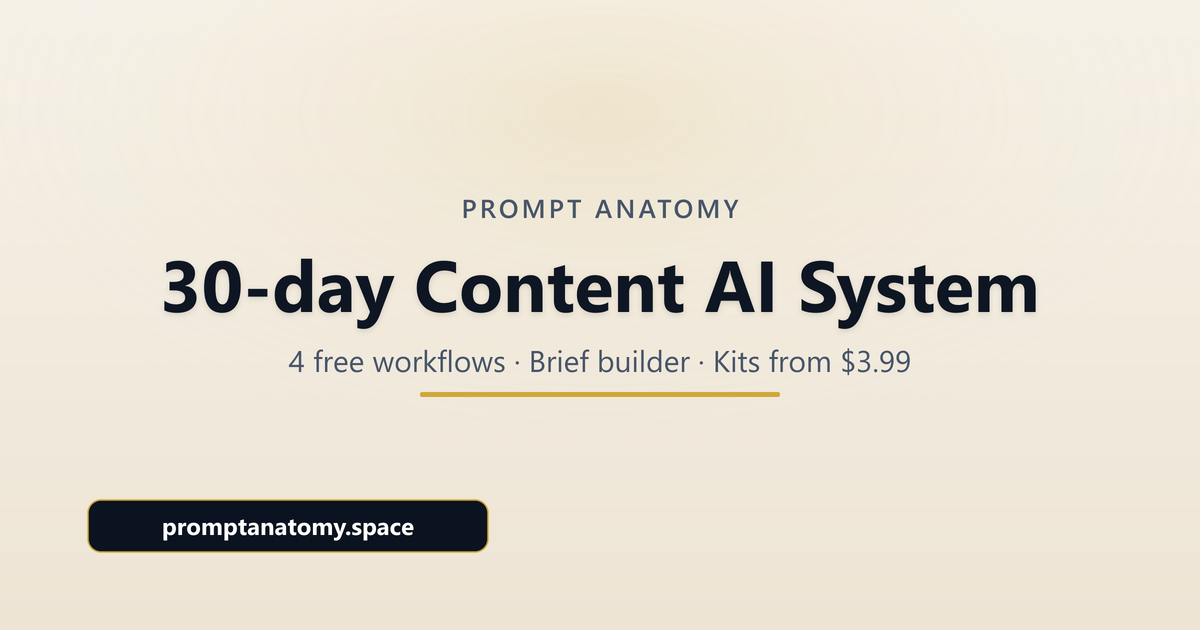
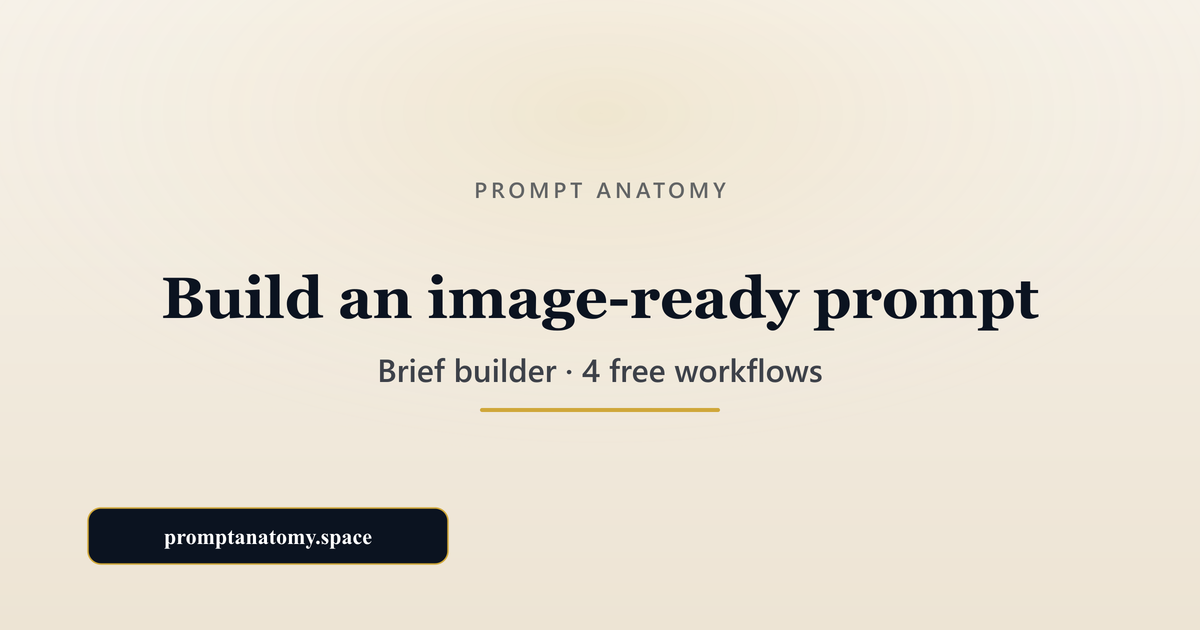
[Content] Drop price from OG share card
Headline names the brief-builder job so LinkedIn/FB previews stay readable.

Changed region(s): [[0.1233, 0.3921, 0.8633, 0.6635], [0.0617, 0.7841, 0.4317, 0.9048], [0.37, 0.2714, 0.6167, 0.3619]]

diff --git a/scripts/generate-og.js b/scripts/generate-og.js
@@ -31,11 +31,12 @@ function escapeXml(s) {
 /** 2400×1260 viewBox 1200×630 — supersampled export for sharper type */
 function buildSvg(brand, tokens) {
   const ink = tokens.color.brand.dark;
-  const muted = tokens.color.text.secondary;
   const gold = tokens.color.brand.primary;
   const page = tokens.color.surface.page;
   const heroEnd = '#ede4d4';
   const { eyebrow, headline, subline } = brand.ogVisual;
+  const display = tokens.typography.fontDisplay;
+  const ui = tokens.typography.fontUi;
 
   return `<?xml version="1.0" encoding="UTF-8"?>
 <svg xmlns="http://www.w3.org/2000/svg" width="2400" height="1260" viewBox="0 0 1200 630" shape-rendering="geometricPrecision" text-rendering="optimizeLegibility">
@@ -45,26 +46,21 @@ function buildSvg(brand, tokens) {
       <stop offset="100%" stop-color="${heroEnd}"/>
     </linearGradient>
     <radialGradient id="glow" cx="50%" cy="18%" r="55%">
-      <stop offset="0%" stop-color="${gold}" stop-opacity="0.14"/>
+      <stop offset="0%" stop-color="${gold}" stop-opacity="0.12"/>
       <stop offset="100%" stop-color="${page}" stop-opacity="0"/>
     </radialGradient>
-    <filter id="shadow" x="-20%" y="-20%" width="140%" height="140%">
-      <feDropShadow dx="0" dy="2" stdDeviation="3" flood-color="#000000" flood-opacity="0.12"/>
-    </filter>
   </defs>
   <rect width="1200" height="630" fill="url(#bg)"/>
   <rect width="1200" height="630" fill="url(#glow)"/>
 
-  <g font-family="Segoe UI, Inter, Helvetica Neue, Arial, sans-serif" text-anchor="middle">
-    <text x="600" y="218" fill="${muted}" font-size="26" font-weight="600" letter-spacing="0.12em">${escapeXml(eyebrow)}</text>
-    <text x="600" y="312" fill="${ink}" font-size="72" font-weight="800" filter="url(#shadow)">${escapeXml(headline)}</text>
-    <text x="600" y="372" fill="${muted}" font-size="30" font-weight="500">${escapeXml(subline)}</text>
-  </g>
-  <rect x="420" y="392" width="360" height="5" rx="2" fill="${gold}"/>
+  <text x="600" y="198" text-anchor="middle" fill="${ink}" fill-opacity="0.62" font-family="${escapeXml(ui)}" font-size="22" font-weight="600" letter-spacing="0.18em">${escapeXml(eyebrow)}</text>
+  <text x="600" y="318" text-anchor="middle" fill="${ink}" font-family="${escapeXml(display)}" font-size="58" font-weight="700">${escapeXml(headline)}</text>
+  <text x="600" y="382" text-anchor="middle" fill="${ink}" fill-opacity="0.78" font-family="${escapeXml(ui)}" font-size="32" font-weight="600">${escapeXml(subline)}</text>
+  <rect x="480" y="408" width="240" height="4" rx="2" fill="${gold}"/>
 
-  <g transform="translate(88, 500)">
-    <rect width="400" height="52" rx="13" fill="${ink}" stroke="${gold}" stroke-width="1.5"/>
-    <text x="200" y="35" text-anchor="middle" fill="#ffffff" font-family="Segoe UI, Inter, Helvetica Neue, Arial, sans-serif" font-size="24" font-weight="700">promptanatomy.space</text>
+  <g transform="translate(88, 508)">
+    <rect width="360" height="56" rx="13" fill="${ink}" stroke="${gold}" stroke-width="1.5"/>
+    <text x="180" y="36" text-anchor="middle" fill="#ffffff" font-family="${escapeXml(ui)}" font-size="22" font-weight="700">promptanatomy.space</text>
   </g>
 </svg>`;
 }

diff --git a/en/index.html b/en/index.html
@@ -18,12 +18,12 @@
     <meta property="og:image" content="https://promptanatomy.space/og.png">
     <meta property="og:image:width" content="1200">
     <meta property="og:image:height" content="630">
-    <meta property="og:image:alt" content="Prompt Anatomy – open brief builder, 4 free workflows, and offline team kits from $3.99">
+    <meta property="og:image:alt" content="Prompt Anatomy – build an image-ready prompt. Brief builder and 4 free workflows.">
     <meta name="twitter:card" content="summary_large_image">
     <meta name="twitter:title" content="Prompt Anatomy · 30-day Content AI System">
     <meta name="twitter:description" content="Fill a brief, copy an image-ready prompt, then run 4 free Plan → Create → Check → Improve workflows. Offline kits from $3.99.">
     <meta name="twitter:image" content="https://promptanatomy.space/og.png">
-    <meta name="twitter:image:alt" content="Prompt Anatomy – open brief builder, 4 free workflows, and offline team kits from $3.99">
+    <meta name="twitter:image:alt" content="Prompt Anatomy – build an image-ready prompt. Brief builder and 4 free workflows.">
     <title>Prompt Anatomy · 30-day Content AI System</title>
     <link rel="icon" type="image/svg+xml" href="../favicon.svg">
     <link rel="icon" type="image/png" sizes="32x32" href="../favicon-32x32.png">

diff --git a/tests/structure.test.js b/tests/structure.test.js
@@ -417,6 +417,15 @@ function run() {
     'en/index.html – brand SEO alt (be MVP CMO Kit / 45 min slogan)'
   )) passed++;
   else failed++;
+  if (brandSeo && assert(
+    brandSeo.ogVisual &&
+      !JSON.stringify(brandSeo.ogVisual).includes('$') &&
+      !brandSeo.ogImageAlt.includes('$') &&
+      !/\d+\.\d{2}/.test(JSON.stringify(brandSeo.ogVisual)) &&
+      !/\d+\.\d{2}/.test(brandSeo.ogImageAlt),
+    'OG visual/alt must not mention price'
+  )) passed++;
+  else failed++;
   if (enHtml && brandSeo && assert(
     enHtml.includes('<title>' + brandSeo.title + '</title>'),
     'en/index.html – brand SEO title iš config/brand-seo.json'

diff --git a/CHANGELOG.md b/CHANGELOG.md
@@ -38,6 +38,7 @@ Formatas pagal [Keep a Changelog](https://keepachangelog.com/en/1.0.0/), versija
 - **[UI] Creative brief builder (`#creative-brief`):** EN-only free browser tool (after spine, before teasers) — A/E/C brief → live image prompt, presets, quality meter, copy + open image tools. SOT: `copy.creativeBrief` + `creativeBrief.tools`. Logic: [`js/creative-brief.js`](js/creative-brief.js). Docs: [`docs/CREATIVE_BRIEF_BUILDER.md`](docs/CREATIVE_BRIEF_BUILDER.md). Ships on GitHub Pages mirror; absent on `/lt/`. E2E: [`tests/e2e/creative-brief.spec.js`](tests/e2e/creative-brief.spec.js).
 
 ### Pakeista
+- **[Content/UI] OG share card (Ambition A / R1-support):** `og.png` headline *Build an image-ready prompt*; subline *Brief builder · 4 free workflows* — no price. Type uses display/UI stacks from tokens; drop-shadow removed. `ogImageAlt` matches. Page `<title>` / meta description still may name kits. Does not exit R1. No SemVer bump.
 - **[Docs/Orchestrator] Agents v1.5.8 lesson §10.22:** Vercel `click_checkout` + `sku` visoms storefront SKU; do not restore `click_starter`. No SemVer bump.
 - **[UI] Checkout events visiems SKU (Ambition A / R1-support):** `js/va-track.js` siunčia `click_checkout` su `data.sku` (`starter` \| `bundle` \| `pro`). Complete ir Pro klikai nebenyksta. Jokio PII. `click_starter` pašalintas. Does not exit R1. No SemVer bump.
 - **[UI] EN hero sample still (Ambition A / R1-support):** `/en/` `.hero-sample-image` is the `0400` challenger (structured cognac bag, gold clasp, travertine, empty plaster). Filenames stay `assets/hero/brief-sample-satori.png` + `.webp` (tests lock the string). Caption/alt unchanged. Operator candidates stay `assets/hero_png/` (gitignored). Does not exit R1. No SemVer bump.

diff --git a/docs/BRAND_SYNC.md b/docs/BRAND_SYNC.md
@@ -32,7 +32,7 @@ This document tracks visual identity alignment with the Prompt Anatomy brand hub
 | `favicon.svg` | **Derivative** of mother `frontend/public/favicon.svg` | Same lightning mark; ink `#0B1320` + gold `#CFA73A` (replaces legacy teal `#008579`) |
 | `favicon-*.png`, `apple-touch-icon.png`, `android-chrome-*.png` | Generated: `npm run icons:export` | From local SVG |
 | `site.webmanifest` | Local; `theme_color` `#0B1320` | `short_name`: PA Library |
-| `og.png` | Generated: `npm run generate:og` | Product subline from `brand-seo.json`; colors from `design-tokens.json` |
+| `og.png` | Generated: `npm run generate:og` | Job headline + free-surface subline from `brand-seo.json` `ogVisual` (no price); colors from `design-tokens.json` |
 | Mother `og-image.png` | Reference only | `.app` social preview; not copied to `.space` |
 
 ---
